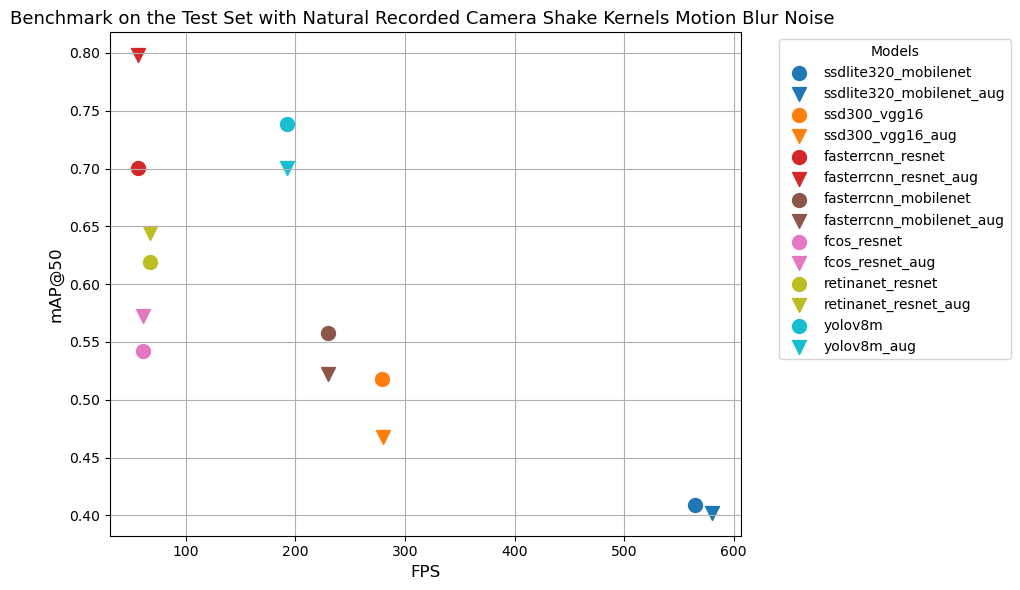
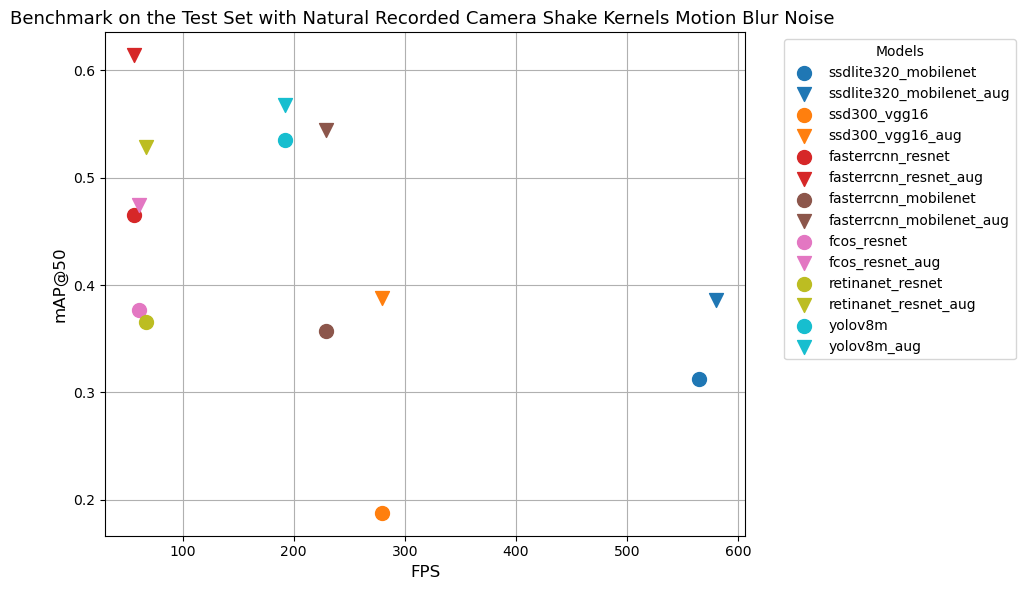
fix plot_test_results to display data correctly update README.md

diff --git a/utils.py b/utils.py
@@ -262,7 +262,7 @@ def create_augmented_train(data_dir):
     copy_labels(source_annot_dir, target_annot_dir)
 
 
-def plot_test_results(noise_type=None, show_augmentations=False):
+def plot_test_results(noise_type=None, show_augmentations=False, show_severity=False):
     # Ensure plot is centered
     display(HTML("<style>.output_wrapper, .output { display: flex; justify-content: center; }</style>"))
     
@@ -291,13 +291,21 @@ def plot_test_results(noise_type=None, show_augmentations=False):
     
     
     # Filter out models that have "_aug" in their name
-    filtered_models = {model: {"test_map50": model_data['test_map50'], "fps": model_data['fps'],
-                               "uni001_map50": model_data['uni001_map50'], "uni005_map50": model_data['uni005_map50'],
-                               "uni01_map50": model_data['uni01_map50'], "eli001_map50": model_data['eli001_map50'],
-                               "eli005_map50": model_data['eli005_map50'], "eli01_map50": model_data['eli01_map50'],
-                               "nat_map50": model_data['nat_map50']}
-                        for model, model_data in data.items() if ("_aug" not in model or (show_augmentations))}
-    
+    if show_severity is False:
+        filtered_models = {model: {"test_map50": model_data['test_map50'], "fps": model_data['fps'],
+                                "uni001_map50": model_data['uni001_map50'], "uni005_map50": model_data['uni005_map50'],
+                                "uni01_map50": model_data['uni01_map50'], "eli001_map50": model_data['eli001_map50'],
+                                "eli005_map50": model_data['eli005_map50'], "eli01_map50": model_data['eli01_map50'],
+                                "nat_map50": model_data['nat_map50']}
+                            for model, model_data in data.items() if (("_aug" not in model or (show_augmentations)) and ("_severity" not in model))}
+    else:
+        filtered_models = {model: {"test_map50": model_data['test_map50'], "fps": model_data['fps'],
+                                "uni001_map50": model_data['uni001_map50'], "uni005_map50": model_data['uni005_map50'],
+                                "uni01_map50": model_data['uni01_map50'], "eli001_map50": model_data['eli001_map50'],
+                                "eli005_map50": model_data['eli005_map50'], "eli01_map50": model_data['eli01_map50'],
+                                "nat_map50": model_data['nat_map50']}
+                            for model, model_data in data.items() if (("_aug" not in model or (show_augmentations)) and ("_severity" in model))}
+        
     # Assign colors to models based on their base name (without "_aug")
     base_model_names = {}
 
@@ -337,7 +345,7 @@ def plot_test_results(noise_type=None, show_augmentations=False):
         axes[0].set_ylabel("mAP@50", fontsize=12)
         handles, labels = axes[0].get_legend_handles_labels()
         fig.legend(handles, labels, title="Models", bbox_to_anchor=(1, 1), loc='upper left')
-        fig.suptitle(f"Benchmark on the Test Set with {noise_name}", fontsize=16)
+        fig.suptitle(f"Benchmark on the {'Severity ' if (show_severity) else ''}Test Set with {noise_name}", fontsize=16)
         plt.tight_layout()
         plt.show()
     else:
@@ -347,11 +355,11 @@ def plot_test_results(noise_type=None, show_augmentations=False):
             base_name = model.replace("_aug", "")
             color = colors(base_model_names[base_name])  # Assign color based on base name
             marker = 'v' if '_aug' in model else 'o'  # Use triangle for "_aug", dot for others
-            
-            plt.scatter(model_data['fps'], model_data['test_map50'], label=model, color=color, 
+            data_type = "test_map50" if noise_type is None else f"{noise_type}_map50"
+            plt.scatter(model_data['fps'], model_data[data_type], label=model, color=color, 
                         marker=marker, s=100)
 
-        plt.title(f"Benchmark on the Test Set {'with ' + noise_name + ' Motion Blur Noise' if (noise_type is not None) else ''} {('(a=' + noise_amplitude + ')' if ((noise_type is not None) and (noise_amplitude.startswith('uni') or noise_type.startswith('eli'))) else '')}", fontsize=13)
+        plt.title(f"Benchmark on the {'Severity ' if (show_severity) else ''}Test Set {'with ' + noise_name + ' Motion Blur Noise' if (noise_type is not None) else ''} {('(a=' + noise_amplitude + ')' if ((noise_type is not None) and (noise_amplitude.startswith('uni') or noise_type.startswith('eli'))) else '')}", fontsize=13)
         plt.xlabel("FPS", fontsize=12)
         plt.ylabel("mAP@50", fontsize=12)
         plt.legend(title="Models", bbox_to_anchor=(1.05, 1), loc='upper left')

diff --git a/README.md b/README.md
@@ -2,26 +2,26 @@
 ## <h2 align="center"> "Mind the Gap" - A Deep Learning Analysis of Pothole Detection </h2>
 
 <h4 align="center">
-  <table align="center">
-    <tr>
-      <td align="center">
+  <table align="center" style="border: none;">
+    <tr style="border: none;">
+      <td align="center" style="border: none;">
         <img src="./data/readme/Itai.png" width="100" height="100"/> <br>
         <strong>Itai Benyamin</strong> <br>
         <a href="https://www.linkedin.com/in/itai-benyamin/">
-          <img src="./data/readme/LinkedInLogo.png" width="50" height="50"/>
+          <img src="./data/readme/LinkedInLogo.png" width="40" height="40"/>
         </a>
         <a href="https://github.com/Itai-b">
-          <img src="./data/readme/GitHubLogo.png" width="50" height="50"/>
+          <img src="./data/readme/GitHubLogo.png" width="40" height="40"/>
         </a>
       </td>
-      <td align="center">
+      <td align="center" style="border: none;">
         <img src="./data/readme/Idan.png" width="100" height="100"/> <br>
         <strong>Idan Baruch</strong> <br>
         <a href="https://www.linkedin.com/in/idan-baruch-76490a181/">
-          <img src="./data/readme/LinkedInLogo.png" width="50" height="50"/>
+          <img src="./data/readme/LinkedInLogo.png" width="40" height="40"/>
         </a>
         <a href="https://github.com/idanbaru">
-          <img src="./data/readme/GitHubLogo.png" width="50" height="50"/>
+          <img src="./data/readme/GitHubLogo.png" width="40" height="40"/>
         </a>
       </td>
     </tr>
@@ -29,10 +29,9 @@
 </h4>
 
 ## Abstract
+In this project we trained different state-of-the-art (SOTA) object detection models for the task of pothole detection and evaluated their performance under  self-synthesized motion blur noise. This noise was generated using randomized kernel types and sizes to simulate real-world conditions where camera shake or motion artifacts may degrade image quality. The study provides insights into how motion blur affects detection accuracy and offers recommendations for improving the robustness of automated road maintenance systems.
 
-This project focuses on the detection and classification of potholes in road infrastructure, with a specific emphasis on categorizing them by their severity levels. The goal is to develop a deep learning-based solution capable of accurately identifying potholes and determining their severity from images.
-
-We trained different state-of-the-art (SOTA) object detection models for this task and evaluated their performance under various conditions, including self-synthesized motion blur noise. This noise was generated using randomized kernel types and sizes to simulate real-world conditions where camera shake or motion artifacts may degrade image quality. The study provides insights into how motion blur affects detection accuracy and offers recommendations for improving the robustness of automated road maintenance systems.
+Moreover, we created our own dataset where we classified the potholes into three severity levels: `low`, `medium`, and `high`. This classification was based on how dangerous a pothole is to cars and pedestrians, which can help prioritize road maintenance efforts and allocate resources more effectively. The dataset was annotated with bounding boxes and severity labels, enabling the models to learn to detect and classify potholes simultaneously.
 
 ## Table of Contents
 
@@ -53,14 +52,12 @@ We trained different state-of-the-art (SOTA) object detection models for this ta
 
 ## Installation Instructions
 
-For the complete guide, with step-by-step images, please consult `Setting Up The Working Environment.pdf`
-
-1. Get Anaconda with Python 3, follow the instructions according to your OS (Windows/Mac/Linux) at: https://www.anaconda.com/download
+1. Get Anaconda with Python 3, follow the instructions according to your OS (Windows/Mac/Linux) at [link](https://www.anaconda.com/download)
 2. Install the basic packages using the provided `environment.yml` file by running: `conda env create -f config/environment.yml` which will create a new conda environment named `deep_learn`. You can use `config/environment_no_cuda.yml` for an environment that uses pytorch cpu version.
 3. Alternatively, you can create a new environment and install packages from scratch:
-In Windows open `Anaconda Prompt` from the start menu, in Mac/Linux open the terminal and run `conda create --name deep_learn`. Full guide at https://docs.conda.io/projects/conda/en/latest/user-guide/tasks/manage-environments.html#creating-an-environment-with-commands
+In Windows open `Anaconda Prompt` from the start menu, in Mac/Linux open the terminal and run `conda create --name deep_learn`. Full guide at [link](https://docs.conda.io/projects/conda/en/latest/user-guide/tasks/manage-environments.html#creating-an-environment-with-commands)
 4. To activate the environment, open the terminal (or `Anaconda Prompt` in Windows) and run `conda activate deep_learn`
-5. Install the required libraries according to the table below (to search for a specific library and the corresponding command you can also look at https://anaconda.org/)
+5. Install the required libraries according to the table below (to search for a specific library and the corresponding command you can also look at [link](https://anaconda.org/))
 
 ### Libraries to Install
 
@@ -101,13 +98,13 @@ We created a custom torch dataset named PotholeDetectionDataset and then split t
 In this project we trained the following SOTA object detection models:
 
 [torchvision models](https://pytorch.org/vision/stable/models.html#object-detection-instance-segmentation-and-person-keypoint-detection):
-- `ssd`
-- `faster rcnn`
-- `retinanet`
-- `fcos`
+- `ssd` [SSD: Single Shot MultiBox Detector](http://dx.doi.org/10.1007/978-3-319-46448-0_2)
+- `faster rcnn` [Faster R-CNN: Towards Real-Time Object Detection with Region Proposal Networks](https://arxiv.org/abs/1506.01497)
+- `retinanet` [Focal Loss for Dense Object Detection](https://arxiv.org/abs/1708.02002)
+- `fcos` [FCOS: Fully Convolutional One-Stage Object Detection](https://arxiv.org/abs/1904.01355)
 
 [ultralytics yolo](https://docs.ultralytics.com/models/yolov8/):
-- `yolov8m`
+- `yolov8m` [YOLOv8 models documentation](https://docs.ultralytics.com/models/yolov8/)
 
 ### Hyperparameter Tuning
 In this project, hyperparameter tuning was conducted using Optuna to optimize training on various torchvision models.
@@ -149,7 +146,7 @@ The objective function was optimized using `MedianPruner` and `TPESampler` for b
 - At the end, each configuration was set to be trained with a batch size of 8 for 100 epochs.
 - Best weights achieving the highest mAP@50 on the validation set were saved.
 
-## Results
+## Pre-Augmentation Results
 
 <div align="center">
   <img src="./data/plots/training_loss_val_map.png"/>
@@ -179,7 +176,7 @@ These augmentations were chosen to help the model generalize better to different
 - The `RandomGaussianBlur` simulates the effect of out-of-focus blur, which can occur due to incorrect focus settings.
 - The `RandomSharpness` augmentation adjusts the sharpness of the image, simulating varying levels of focus and helping the model to learn to handle both sharp and blurry images.
 
-## Results
+## Post Augmentations Results
 
 ### Results on the Clean Test Set
 
@@ -226,11 +223,18 @@ These augmentations were chosen to help the model generalize better to different
 
 4. *Faster R-CNN vs YOLO vs SSD: Object Detection Algorithms*. Medium, IBM Data & AI. [Link](https://medium.com/ibm-data-ai/faster-r-cnn-vs-yolo-vs-ssd-object-detection-algorithms-18badb0e02dc).
 
-5. Tamagusko, T., Ferreira, A. *Optimizing Pothole Detection in Pavements: A Comparative Analysis of Deep Learning Models*. Eng. Proc. 2023, 36, 11. DOI: [10.3390/engproc2023036011](https://doi.org/10.3390/engproc2023036011).
+5. W. Liu, D. Anguelov, D. Erhan, C. Szegedy, S. Reed, C.-Y. Fu, and A. C. Berg. *SSD: Single Shot MultiBox Detector*. In Computer Vision – ECCV 2016, Springer International Publishing, 2016, pp. 21–37. DOI: [10.1007/978-3-319-46448-0_2](http://dx.doi.org/10.1007/978-3-319-46448-0_2).
 
-6. A. Levin, Y. Weiss, F. Durand, and W. T. Freeman. *Understanding and Evaluating Blind Deconvolution Algorithms*. 2009 IEEE Conference on Computer Vision and Pattern Recognition, Miami, FL, USA, 2009, pp. 1964-1971. DOI: [10.1109/CVPR.2009.5206815](https://doi.org/10.1109/CVPR.2009.5206815).
+6. S. Ren, K. He, R. Girshick, and J. Sun. *Faster R-CNN: Towards Real-Time Object Detection with Region Proposal Networks*. arXiv preprint arXiv:1506.01497, 2016. [Link](https://arxiv.org/abs/1506.01497).
 
-7. Atikur Rahman and Sachin Patel. *Annotated Potholes Image Dataset*. Kaggle, 2020. DOI: [10.34740/KAGGLE/DSV/973710](https://www.kaggle.com/dsv/973710).
- 
+7. T.-Y. Lin, P. Goyal, R. Girshick, K. He, and P. Dollár. *Focal Loss for Dense Object Detection*. arXiv preprint arXiv:1708.02002, 2018. [Link](https://arxiv.org/abs/1708.02002).
 
+8. Z. Tian, C. Shen, H. Chen, and T. He. *FCOS: Fully Convolutional One-Stage Object Detection*. arXiv preprint arXiv:1904.01355, 2019. [Link](https://arxiv.org/abs/1904.01355).
 
+9. Ultralytics. *YOLOv8 models documentation*. [Link](https://docs.ultralytics.com/models/yolov8/).
+
+10. T. Tamagusko and A. Ferreira. *Optimizing Pothole Detection in Pavements: A Comparative Analysis of Deep Learning Models*. Eng. Proc. 2023, 36, 11. DOI: [10.3390/engproc2023036011](https://doi.org/10.3390/engproc2023036011).
+
+11. A. Levin, Y. Weiss, F. Durand, and W. T. Freeman. *Understanding and Evaluating Blind Deconvolution Algorithms*. 2009 IEEE Conference on Computer Vision and Pattern Recognition, Miami, FL, USA, 2009, pp. 1964-1971. DOI: [10.1109/CVPR.2009.5206815](https://doi.org/10.1109/CVPR.2009.5206815).
+
+12. A. Rahman and S. Patel. *Annotated Potholes Image Dataset*. Kaggle, 2020. DOI: [10.34740/KAGGLE/DSV/973710](https://www.kaggle.com/dsv/973710).
